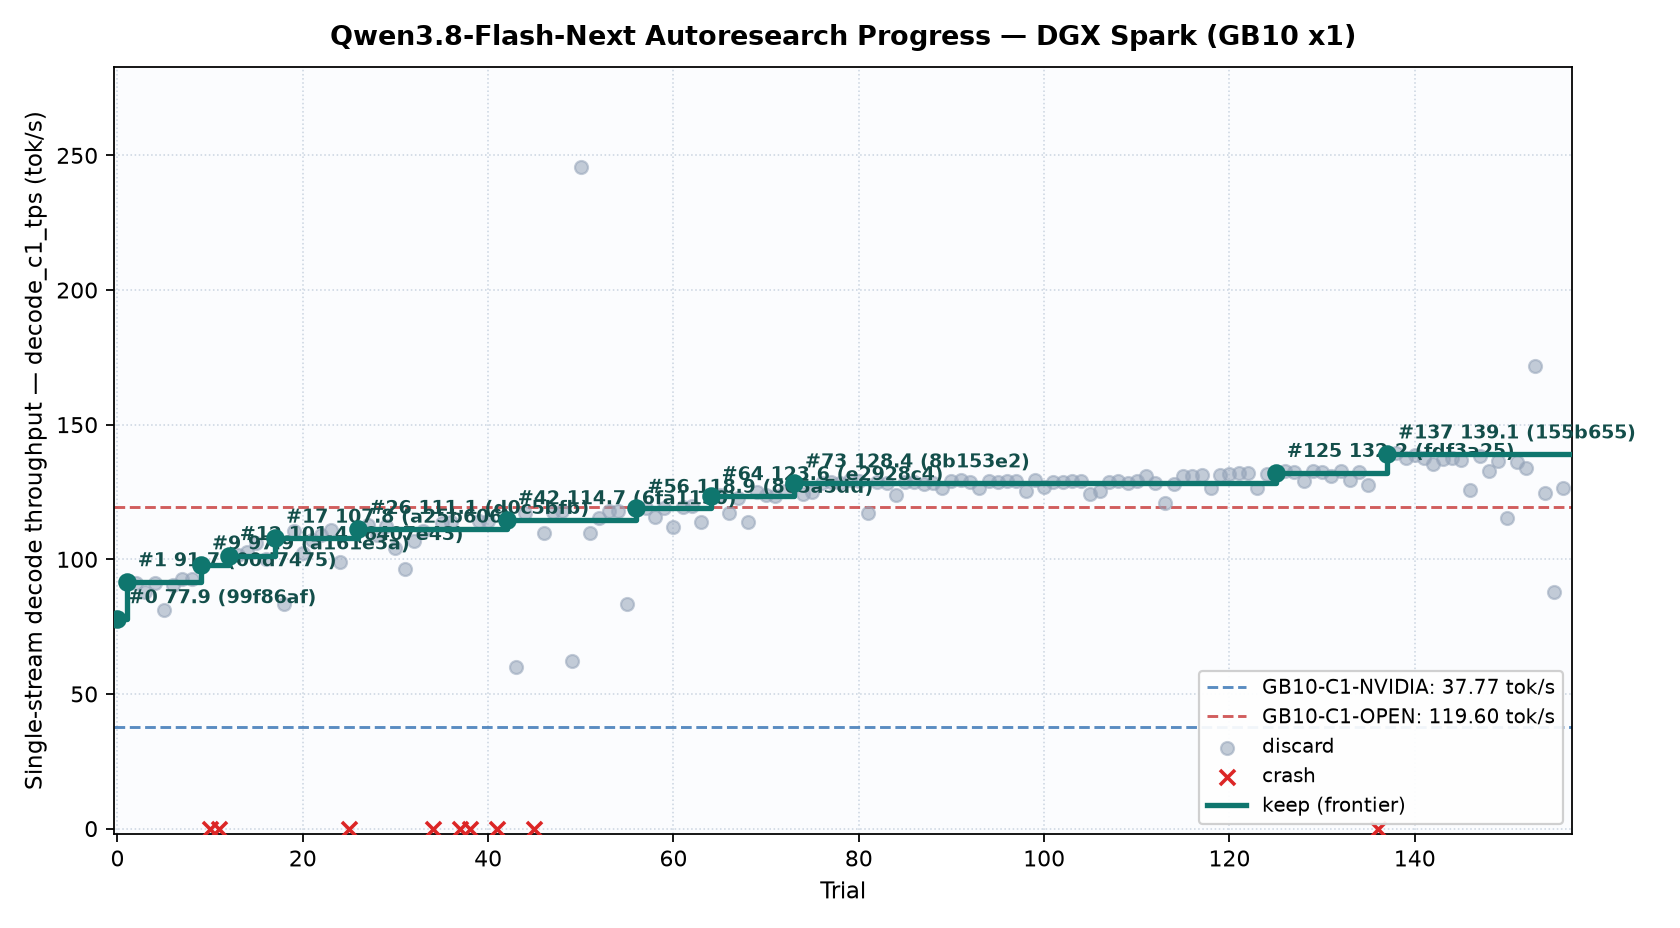
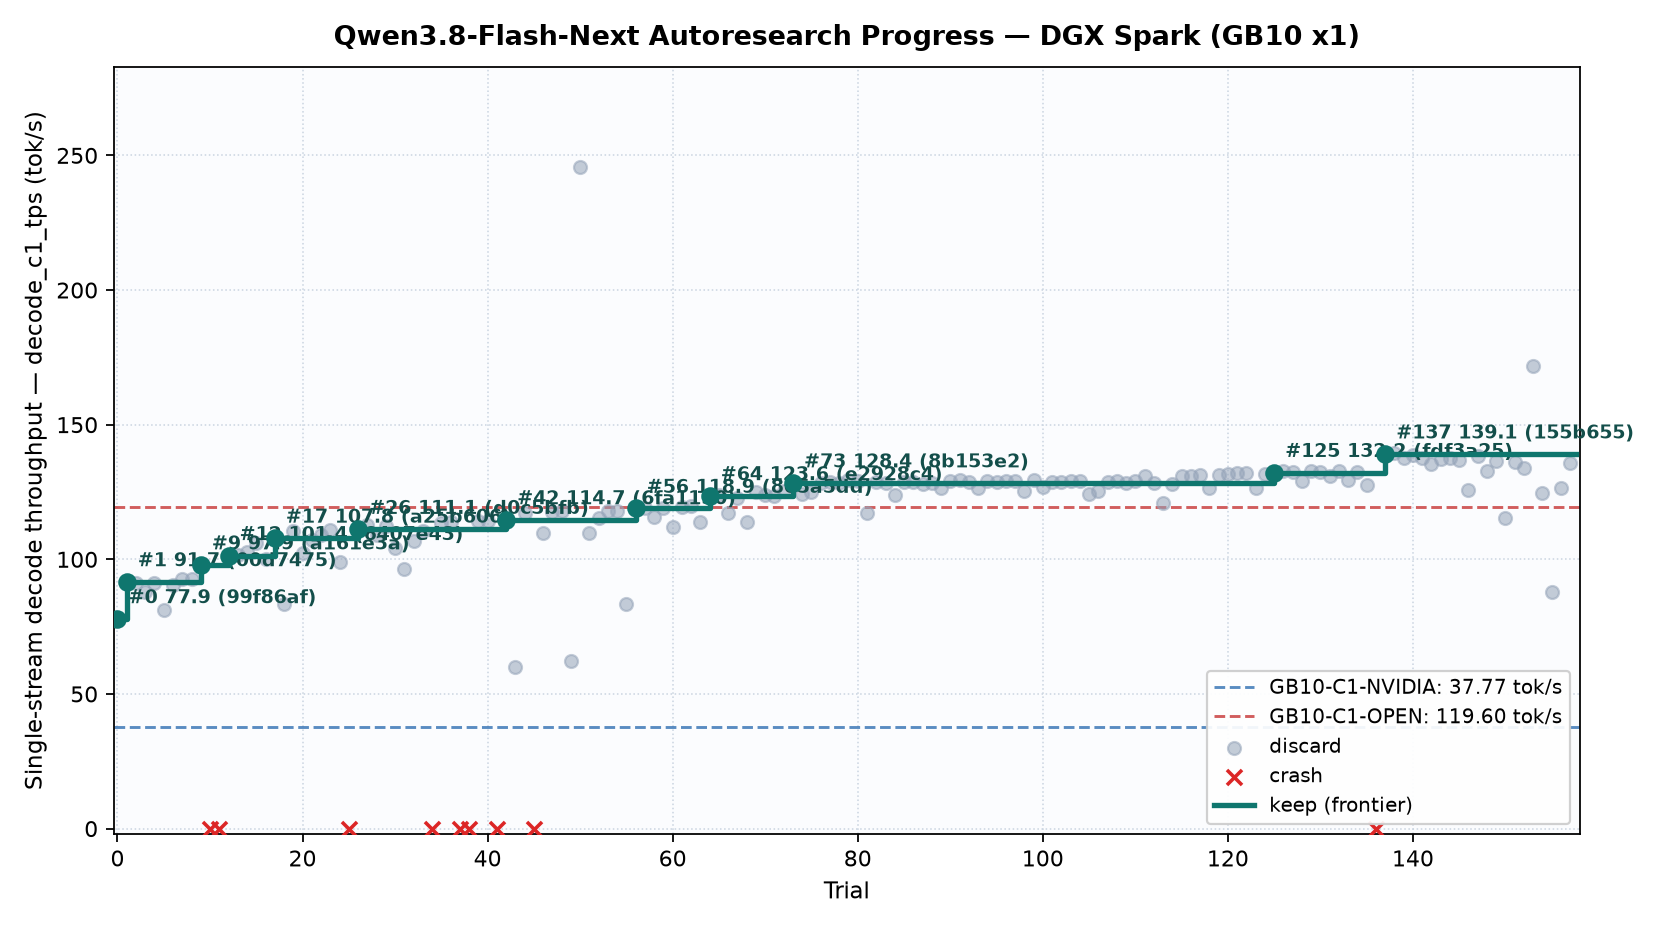
spark trial 157: discard

diff --git a/records/research-log.md b/records/research-log.md
@@ -186,3 +186,4 @@ Deprioritized: **3-bit expert weights** (Hibana +43% but GPQA -0.3, LCB -2.3; on
 | 2026-11-22 00:33 | 154 (new stack) | <https://github.com/sharar-project/hibana/blob/main/docs/flashnext.md> | Checked release, commit and PR feeds for all six engines. The 8% singleton budget raised C1 but missed the C8 floor and changed greedy hashes. Trial 153 recorded 171.92 tok/s (discard). | Adopt a narrower 4% aggregate mass limit on the same low-ranked singletons across all profiles. Check the parallel floor and fixed accuracy gate. |
 | 2026-11-22 00:42 | 155 (new stack) | <https://github.com/sharar-project/hibana/blob/main/docs/flashnext.md> | Checked release, commit and PR feeds for all six engines. The 8% budget accelerated C1 but missed the parallel floor, and tightening the budget to 4% also missed the C1 gate. Trial 154 recorded 124.54 tok/s (discard). | Limit pruning to the tenth-ranked singleton with at most 8% weight. Tag it in the first routing-count pass and use one warp broadcast for renormalization, removing the second block barrier. |
 | 2026-11-22 00:53 | 156 (new stack) | <https://github.com/sharar-project/hibana/blob/v0.1.0/docs/flashnext.md> | Reviewed six release, commit and PR feeds. In trial 153 mass-bounded sharing improved C1 but missed the parallel floor. Trial 155 lost 36.80% C1. | Hibana item 1. Apply the 8% singleton budget only when the leading expert receives at least 30% of routed mass. Apply the same rule across profiles. |
+| 2026-11-22 01:02 | 157 (new stack) | <https://github.com/NVIDIA/TensorRT-LLM/commit/fa257c96876c25256a1310538882c97df2147e87> | Checked six release, commit and PR feeds. Trial 156 discarded at 126.42 tok/s with changed hashes. TensorRT-LLM specializes MoE tactics by layout. | Defer the engine change. Index each sorted NVFP4 scale exception list by 1024-key ranges, then search only the occupied range. All original scale bytes and routes are retained. |
